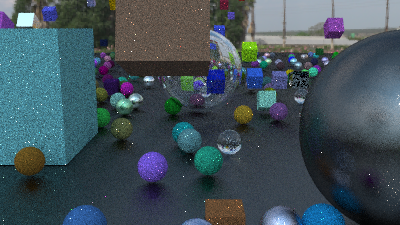
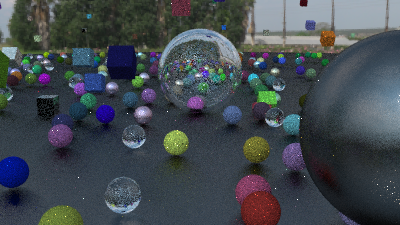
cubes-rotation

diff --git a/cube.hpp b/cube.hpp
@@ -6,23 +6,29 @@
 //class cube
 class cube : public hittable {
 public:
-	cube(const point3& min_corner, const point3& max_corner, shared_ptr<material> mat, double angle)
-		: min_corner(min_corner)
-		, max_corner(max_corner)
-		, mat(mat)
-		, rotation_Z(angle)
+	cube(const point3& min_corner_world, const point3& max_corner_world, 
+		shared_ptr<material> mat, double angle)
+		: mat(mat)
+		, rotation_Y(angle)
 	{
+		//calculate center position of cube in world coordinates
+		position = 0.5 * (min_corner_world + max_corner_world);
+		//calculate half extents vector (half the size of the cube in each dimension)
+		half_extents = 0.5 * (max_corner_world - min_corner_world);
 	}
 
 	//cube
 	virtual bool hit(const ray& r, interval ray_t, hit_record& rec) const override {
-
+		
+		//WORLD -> LOCAL (substract center and rotate)
 		//cube center point
-		point3 C = center();
+		point3 C = position;
+		vec3 ro = r.origin() - C;
+		vec3 rd = r.direction();
 
-		//World -> LOCAL (translate to cube center, rotate)
-		vec3 ro = rotate_Z_inv(r.origin() - C, rotation_Z);
-		vec3 rd = rotate_Z_inv(r.direction(), rotation_Z);
+		ro = rotate_Y(ro, -rotation_Y);
+		rd = rotate_Y(rd, -rotation_Y);
+
 		ray r_local(ro, rd);
 
 		double tmin = ray_t.min;
@@ -30,10 +36,18 @@ public:
 
 		//loop "for" goes through each axis checking interesection
 		for (int i = 0; i < 3; ++i) {
+			//boundaries of cube in local space (centered at origin (0,0,0))
+			double min_local = -half_extents[i];
+			double max_local = half_extents[i];
+
+			//calculate intersection 
+			
 			//distances of intersections of radius with surfaces limting cube 
 			double invD = 1.0 / r_local.direction()[i];
-			double t0 = (min_corner[i] - r_local.origin()[i]) * invD;
-			double t1 = (max_corner[i] - r_local.origin()[i]) * invD;
+			double half_extent = half_extents[i];
+
+			double t0 = (min_local - r_local.origin()[i]) * invD;
+			double t1 = (max_local - r_local.origin()[i]) * invD;
 
 			if (invD < 0.0) {
 				std::swap(t0, t1);
@@ -47,12 +61,18 @@ public:
 			}
 		}
 
-		//update hit_record data if radius intersect the cube
+		//local intersection point and normal calculation
 		rec.t = tmin; //set distance from starting point of the radius to the place of intersection
 		point3 p_local = r_local.at(rec.t);
+
+		//updated compute normal function
 		vec3 normal_local = compute_normal(p_local);
-		rec.p = rotate_Z(p_local, rotation_Z) + C;
-		rec.normal = unit_vector(rotate_Z(normal_local, rotation_Z)); //determine normal
+
+		//local->World (rotate and add center)
+		rec.p = rotate_Y(p_local, rotation_Y) + C;
+		vec3 normal_world = rotate_Y(normal_local, rotation_Y);
+		rec.normal = unit_vector(normal_world); //determine normal
+		
 		rec.mat = mat; //assign cube material
 		rec.set_face_normal(r, rec.normal);
 
@@ -60,47 +80,33 @@ public:
 	}
 
 private:
-	point3 min_corner, max_corner; //bottom-left-back and top-rigt-front cube corners
+	point3 position; //cube center position
+	vec3 half_extents; //half the size of the cube in each dimension
 	shared_ptr<material> mat;
-	double rotation_Z;
-
-	//calculate center point of cube
-	point3 center() const {
-		return 0.5 * (min_corner + max_corner);
-	}
+	double rotation_Y;
 
 	//function to determine normal vector in intersection
 	vec3 compute_normal(const point3& p) const {
 		const double EPS = 1e-3;
 
-		if (std::fabs(p.x() - min_corner.x()) < EPS) return vec3(-1, 0, 0);
-		if (std::fabs(p.x() - max_corner.x()) < EPS) return vec3(1, 0, 0);
+		if (std::fabs(p.x() + half_extents.x()) < EPS) return vec3(-1, 0, 0); //mix_x (back face)
+		if (std::fabs(p.x() - half_extents.x()) < EPS) return vec3(1, 0, 0); //max_x (front face)
 
-		if (std::fabs(p.y() - min_corner.y()) < EPS) return vec3(0, -1, 0);
-		if (std::fabs(p.y() - max_corner.y()) < EPS) return vec3(0, 1, 0);
+		if (std::fabs(p.y() + half_extents.y()) < EPS) return vec3(0, -1, 0); //min_y (bottom face)
+		if (std::fabs(p.y() - half_extents.y()) < EPS) return vec3(0, 1, 0); //max_y (top face)
 
-		if (std::fabs(p.z() - min_corner.z()) < EPS) return vec3(0, 0, -1);
+		if (std::fabs(p.z() + half_extents.z()) < EPS) return vec3(0, 0, -1); //min_z (left face)
 		return vec3(0, 0, 1);
 	}
 
 	//functions to rotate cubes Z-axis
-	vec3 rotate_Z(const vec3& v, double angle) const {
+	vec3 rotate_Y(const vec3& v, double angle) const {
 		double c = std::cos(angle);
 		double s = std::sin(angle);
 		return vec3(
-			c * v.x() - s * v.y(),
-			s * v.x() + c * v.y(),
-			v.z()
-		);
-	}
-
-	vec3 rotate_Z_inv(const vec3& v, double angle) const {
-		double c = std::cos(angle);
-		double s = std::sin(angle);
-		return vec3(
-			c * v.x() + s * v.y(),
-			-s * v.x() + c * v.y(),
-			v.z()
+			c * v.x() + s * v.z(),  // x' = c*x + s*z
+			v.y(),                  // y' = y
+			-s * v.x() + c * v.z()  // z' = -s*x + c*z
 		);
 	}
 };

diff --git a/main.cpp b/main.cpp
@@ -62,7 +62,7 @@ int main() {
 						point3 min_corner(center.x() - 0.2, center.y() - 0.2, center.z() - 0.2);
 						point3 max_corner(center.x() + 0.2, center.y() + 0.2, center.z() + 0.2);
 
-						double angle_deg = random_double(0.0, 360.0);
+						double angle_deg = random_double(0.0, 45.0);
 						double angle_rad = degrees_to_radians(angle_deg);
 
 						world.add(make_shared<cube>(min_corner, max_corner, object_material, angle_rad));
@@ -83,7 +83,7 @@ int main() {
 						point3 min_corner(center.x() - 0.2, center.y() - 0.2, center.z() - 0.2);
 						point3 max_corner(center.x() + 0.2, center.y() + 0.2, center.z() + 0.2);
 
-						double angle_deg = random_double(0.0, 360.0);
+						double angle_deg = random_double(0.0, 45.0);
 						double angle_rad = degrees_to_radians(angle_deg);
 
 						world.add(make_shared<cube>(min_corner, max_corner, object_material, angle_rad));
@@ -102,7 +102,7 @@ int main() {
 						point3 min_corner(center.x() - 0.2, center.y() - 0.2, center.z() - 0.2);
 						point3 max_corner(center.x() + 0.2, center.y() + 0.2, center.z() + 0.2);
 
-						double angle_deg = random_double(0.0, 360.0);
+						double angle_deg = random_double(0.0, 45.0);
 						double angle_rad = degrees_to_radians(angle_deg);
 
 						world.add(make_shared<cube>(min_corner, max_corner, object_material, angle_rad));
